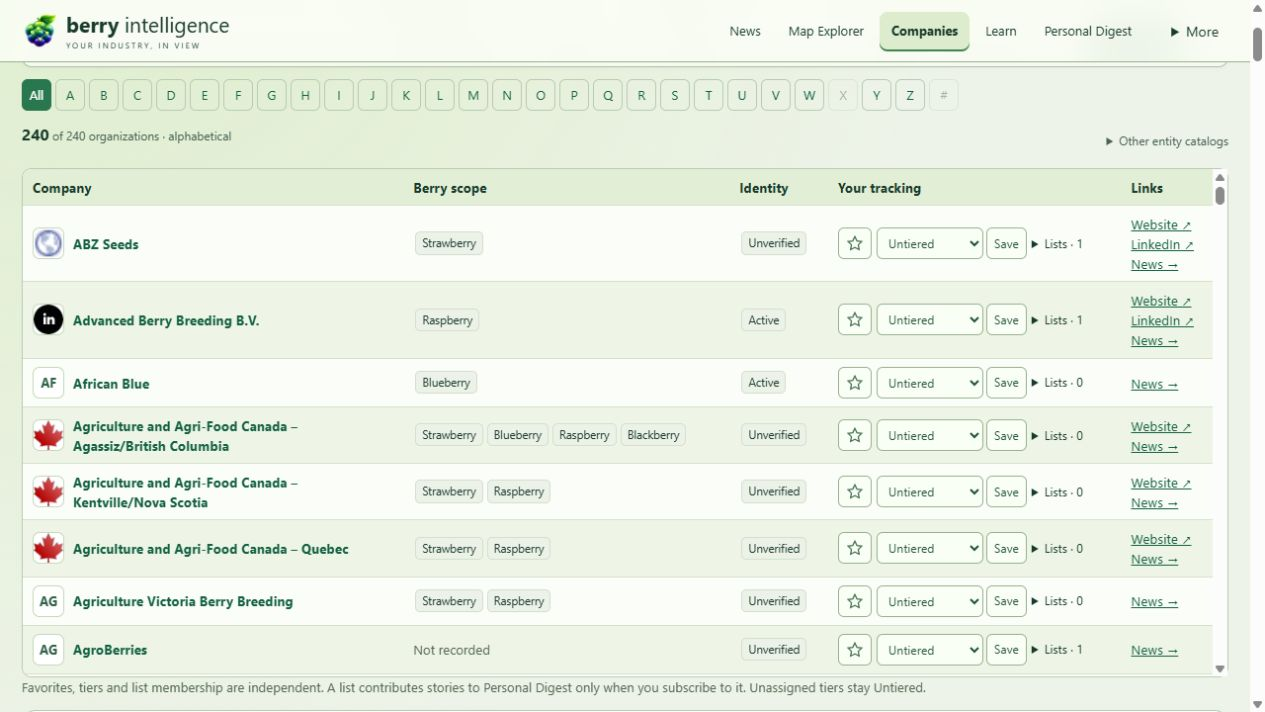
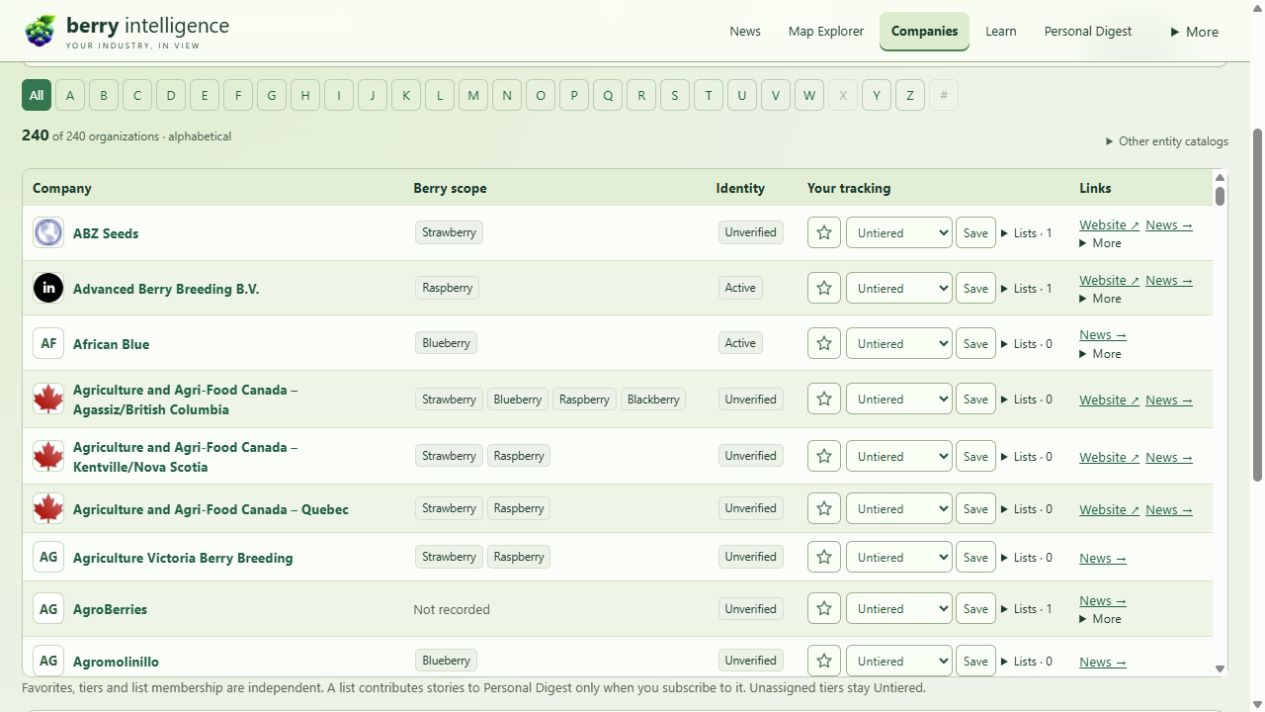
Preserve comparison, portfolio and identity compatibility

diff --git a/app/templates/company_directory.html b/app/templates/company_directory.html
@@ -1,14 +1,14 @@
 {% extends "glasshouse_base.html" %}
 {% from "_company_controls.html" import tracking with context %}
 {% block title %}Companies · Berry Intelligence{% endblock %}
-{% block head_extra %}<link rel="stylesheet" href="/static/company_workspace.css?v=4">{% endblock %}
+{% block head_extra %}<link rel="stylesheet" href="/static/company_workspace.css?v=5">{% endblock %}
 {% block content %}
 <div class="company-workspace">
 <header class="digest-heading"><div><p class="eyebrow">YOUR INDUSTRY NETWORK</p><h1>Companies</h1><p>Find organizations, follow their news and organize your interests.</p></div><div class="company-socials"><a class="outline-button" href="#company-directory-results">Focus directory</a><a class="outline-button" href="#company-lists">Lists & subscriptions</a></div></header>
 <form class="digest-filters" method="get"><label>Search<input type="search" name="q" value="{{ filters.q }}" placeholder="Company name or alias"></label><label>Organization type<select name="kind"><option value="">All organizations</option>{% for key,label in [('company','Companies'),('brand','Brands'),('breeding_program','Breeding programs'),('registry','Source systems')] %}<option value="{{ key }}" {% if filters.kind == key %}selected{% endif %}>{{ label }}</option>{% endfor %}</select></label><label>Tier<select name="tier"><option value="">All tiers</option>{% for key,label in tiers.items() %}<option value="{{ key }}" {% if filters.tier == key %}selected{% endif %}>{{ label }}</option>{% endfor %}</select></label><label>Company list<select name="list"><option value="">All lists</option>{% for group in lists %}<option value="{{ group.id }}" {% if filters.list == group.id %}selected{% endif %}>{{ group.name }}</option>{% endfor %}</select></label><label class="company-check"><input type="checkbox" name="favorites" value="1" {% if filters.favorites == '1' %}checked{% endif %}> Favorites only</label><details class="company-crops"><summary>Berries · {{ filters.berry.split(',')|reject('equalto','')|list|length or 'all' }}</summary>{% for key,label in berries.items() %}<label><input type="checkbox" name="berry_choice" value="{{ key }}" {% if key in filters.berry.split(',') %}checked{% endif %}> {{ label }}</label>{% endfor %}</details><button class="green-button">Apply filters</button><a href="/entities/company">Reset</a></form>
 <section id="company-directory-results"><nav class="company-alphabet" aria-label="Company alphabetical navigation"><a href="{{ letter_urls[''] }}" {% if not filters.letter %}aria-current="page"{% endif %}>All</a>{% for letter in 'ABCDEFGHIJKLMNOPQRSTUVWXYZ#' %}{% if letter in letters %}<a href="{{ letter_urls[letter] }}" {% if filters.letter == letter %}aria-current="page"{% endif %}>{{ letter }}</a>{% else %}<span>{{ letter }}</span>{% endif %}{% endfor %}</nav>
 <div class="digest-toolbar"><p><b>{{ matching }}</b> of {{ total }} organizations · alphabetical</p><details><summary>Other entity catalogs</summary><a href="/entities/variety">Varieties</a> · <a href="/entities/person">People records</a> · <a href="/entities/geography">Geographies</a> · <a href="/entities/company?view=legacy">Previous directory</a></details></div>
-<div class="company-table-scroll" tabindex="0" aria-label="Company directory; scroll for more rows and columns"><table class="company-table"><thead><tr><th>Company</th><th>Berry scope</th><th>Identity</th><th>Your tracking</th><th>Links</th></tr></thead><tbody>{% for row in rows %}<tr id="organization-{{ row.id }}"><th><a href="{{ row.profile_url }}" class="company-lockup">{% if row.logo_url %}<img src="{{ row.logo_url }}" alt="" loading="lazy" referrerpolicy="no-referrer">{% else %}<span class="company-monogram">{{ row.name[:2]|upper }}</span>{% endif %}<span>{{ row.name }}{% if row.is_registry %}<small>Source system · not a competitor</small>{% elif row.entity_type != 'company' %}<small>{{ row.entity_type|replace('_',' ')|title }}</small>{% endif %}</span></a></th><td>{% for berry in row.berry_ids %}<span class="company-badge">{{ berry.removeprefix('berry-')|title }}</span>{% else %}<span class="company-muted">Not recorded</span>{% endfor %}</td><td><span class="company-badge">{{ row.status|replace('_',' ')|capitalize }}</span></td><td>{{ tracking(row, return_to ~ '#organization-' ~ row.id) }}</td><td>{% if row.website %}<a href="{{ row.website }}" target="_blank" rel="noopener noreferrer">Website ↗</a>{% endif %}{% if row.linkedin %}<a href="{{ row.linkedin }}" target="_blank" rel="noopener noreferrer">LinkedIn ↗</a>{% endif %}<a href="/today?company={{ row.id }}">News →</a></td></tr>{% else %}<tr><td colspan="5">No organizations match. Clear a filter or select another letter.</td></tr>{% endfor %}</tbody></table></div>
+<div class="company-table-scroll" tabindex="0" aria-label="Company directory; scroll for more rows and columns"><table class="company-table"><thead><tr><th>Company</th><th>Berry scope</th><th>Identity</th><th>Your tracking</th><th>Links</th></tr></thead><tbody>{% for row in rows %}<tr id="organization-{{ row.id }}"><th><a href="{{ row.profile_url }}" class="company-lockup">{% if row.logo_url %}<img src="{{ row.logo_url }}" alt="" loading="lazy" referrerpolicy="no-referrer">{% else %}<span class="company-monogram">{{ row.name[:2]|upper }}</span>{% endif %}<span>{{ row.name }}{% if row.is_registry %}<small>Source system · not a competitor</small>{% elif row.entity_type != 'company' %}<small>{{ row.entity_type|replace('_',' ')|title }}</small>{% endif %}</span></a></th><td>{% for berry in row.berry_ids %}<span class="company-badge">{{ berry.removeprefix('berry-')|title }}</span>{% else %}<span class="company-muted">Not recorded</span>{% endfor %}</td><td><span class="company-badge">{{ row.status|replace('_',' ')|capitalize }}</span></td><td>{{ tracking(row, return_to ~ '#organization-' ~ row.id) }}</td><td>{% if row.website %}<a href="{{ row.website }}" target="_blank" rel="noopener noreferrer">Website ↗</a>{% endif %}<a href="/today?company={{ row.id }}">News →</a>{% if row.linkedin or (row.canonical and row.entity_type == 'company') %}<details class="company-extra-links"><summary>More</summary>{% if row.linkedin %}<a href="{{ row.linkedin }}" target="_blank" rel="noopener noreferrer">LinkedIn ↗</a>{% endif %}{% if row.canonical and row.entity_type == 'company' %}<a href="/entities/company/compare?ids={{ row.id }}">Compare</a><a href="/entities/company/{{ row.id }}/portfolio">Portfolio</a>{% endif %}</details>{% endif %}</td></tr>{% else %}<tr><td colspan="5">No organizations match. Clear a filter or select another letter.</td></tr>{% endfor %}</tbody></table></div>
 </section><p class="company-muted">Favorites, tiers and list membership are independent. A list contributes stories to Personal Digest only when you subscribe to it. Unassigned tiers stay Untiered.</p>
 {% include "_company_lists.html" %}
 </div>

diff --git a/app/templates/feed_first_company.html b/app/templates/feed_first_company.html
@@ -2,10 +2,10 @@
 {% from "_company_controls.html" import tracking with context %}
 {% from "_personal_icons.html" import icon, action_icon with context %}
 {% block title %}{{ name }} · Berry Intelligence{% endblock %}
-{% block head_extra %}<link rel="stylesheet" href="/static/company_workspace.css?v=4"><link rel="stylesheet" href="/static/news_workspace.css">{% endblock %}
+{% block head_extra %}<link rel="stylesheet" href="/static/company_workspace.css?v=5"><link rel="stylesheet" href="/static/news_workspace.css">{% endblock %}
 {% block content %}
 <div class="company-workspace" data-company-profile data-entity-dossier data-entity-id="{{ entity_id }}" data-archetype="{{ dossier.archetype }}">
-<header class="company-profile-heading"><a href="/entities/company" class="company-back">← Companies</a><div class="company-identity">{% if company.logo_url %}<img class="bos-logo bos-entity-logo" src="{{ company.logo_url }}" alt="{{ name }} logo" referrerpolicy="no-referrer">{% else %}<span class="company-monogram company-large">{{ monogram }}</span>{% endif %}<div><p class="eyebrow">{{ dossier.archetype_label }}</p><h1>{{ name }}</h1><p>{{ 'Provisional identity' if company.status == 'unverified' else 'Catalog record · ' ~ (company.status|capitalize) }}{% if not dossier.competitor_eligible %} · Excluded from competitor counts{% endif %}</p></div></div><div class="company-profile-actions">{{ tracking(company, return_to) }}<a class="outline-button" href="/today?company={{ entity_id }}">Company news →</a></div><div class="company-socials">{% if company.website %}<a href="{{ company.website }}" target="_blank" rel="noopener noreferrer">Website ↗</a>{% endif %}{% if company.linkedin %}<a href="{{ company.linkedin }}" target="_blank" rel="noopener noreferrer">LinkedIn ↗</a>{% endif %}{% for social in company.socials %}{% if social.url %}<a href="{{ social.url }}" target="_blank" rel="noopener noreferrer">{{ social.platform or social.label }}{% if social.handle %} · {{ social.handle }}{% endif %} ↗</a>{% else %}<span>{{ social.platform }} · {{ social.handle }}</span>{% endif %}{% endfor %}{% if company.edited %}<small>User-edited profile links</small>{% endif %}</div></header>
+<header class="company-profile-heading"><a href="/entities/company" class="company-back">← Companies</a><div class="company-identity">{% if company.logo_url %}<img class="bos-logo bos-entity-logo" src="{{ company.logo_url }}" alt="{{ name }} logo" referrerpolicy="no-referrer">{% else %}<span class="company-monogram company-large">{{ monogram }}</span>{% endif %}<div><p class="eyebrow">{{ dossier.archetype_label }}</p><h1>{{ name }}</h1><p>{{ 'Provisional identity · Unverified' if company.status == 'unverified' else 'Catalog record · ' ~ (company.status|capitalize) }}{% if not dossier.competitor_eligible %} · Excluded from competitor counts{% endif %}</p></div></div><div class="company-profile-actions">{{ tracking(company, return_to) }}<a class="outline-button" href="/today?company={{ entity_id }}">Company news →</a></div><div class="company-socials">{% if company.website %}<a href="{{ company.website }}" target="_blank" rel="noopener noreferrer">Website ↗</a>{% endif %}{% if company.linkedin %}<a href="{{ company.linkedin }}" target="_blank" rel="noopener noreferrer">LinkedIn ↗</a>{% endif %}{% for social in company.socials %}{% if social.url %}<a href="{{ social.url }}" target="_blank" rel="noopener noreferrer">{{ social.platform or social.label }}{% if social.handle %} · {{ social.handle }}{% endif %} ↗</a>{% else %}<span>{{ social.platform }} · {{ social.handle }}</span>{% endif %}{% endfor %}{% if company.edited %}<small>User-edited profile links</small>{% endif %}</div></header>
 {% if request.query_params.get('saved') %}<p class="digest-notice" role="status">Profile changes saved.</p>{% endif %}{% if logo_status %}<p class="digest-notice" role="status">{{ logo_status }}</p>{% endif %}{% if logo_error %}<p class="digest-notice" role="alert">{{ logo_error }}</p>{% endif %}
 <nav class="company-tabs" aria-label="Company sections">{% for key,label in [('overview','Overview'),('news','News'),('intelligence','Intelligence'),('varieties','Varieties'),('regions','Regions'),('people','People'),('details','Profile & links')] %}<a href="?tab={{ key }}" {% if tab == key %}aria-current="page"{% endif %}>{{ label }}{% if key == 'people' %} <small>{{ company_people|rejectattr('hidden')|list|length }}</small>{% endif %}</a>{% endfor %}</nav>
 {% if tab == 'overview' %}

diff --git a/app/static/company_workspace.css b/app/static/company_workspace.css
@@ -5,3 +5,5 @@
 .company-membership:not([open])>div{display:none}.company-membership>div{min-width:0;width:min(300px,calc(100vw - 48px));overflow-wrap:anywhere}.company-membership form span{min-width:0}.company-membership form button{flex:none}
 
 .company-tier-form{position:relative}
+
+.company-table td:last-child>a{display:inline-block;margin-right:6px}.company-extra-links{font-size:.78rem}.company-extra-links a{display:block}

diff --git a/tests/test_app.py b/tests/test_app.py
@@ -71,7 +71,10 @@ def test_public_intelligence_pages_use_compact_bluf_tables() -> None:
     assert "DECIDE" in assessments
     assert "never auto-created from Signal confirmation" in assessments
 
-    for path in ["/entities/company", "/signals", "/strategic-questions"]:
+    directory = client.get("/entities/company").text
+    assert 'class="company-table"' in directory
+    assert "Company alphabetical navigation" in directory
+    for path in ["/signals", "/strategic-questions"]:
         text = client.get(path).text
         assert 'class="entity-list balanced-card-grid public-card-index"' in text
         assert 'class="card entity-card"' in text

diff --git a/app/services/company_directory.py b/app/services/company_directory.py
@@ -51,6 +51,7 @@ def catalog(entities, *, logos=None, profiles=None, state=None):
             if field in override:
                 row[field] = override[field]
         row["logo_url"] = (logos or {}).get(key, {}).get("url") or row.get("logo_url") or ""
+        row["canonical"] = key in entities
         row["favorite"] = bool((state.get("entity_favorites") or {}).get(key))
         row["tier"] = (state.get("entity_tiers") or {}).get(key) or "untiered"
         row["tier_label"] = TIERS.get(row["tier"], "Unrecognized legacy tier")

diff --git a/tests/test_operator_variety_seed.py b/tests/test_operator_variety_seed.py
@@ -71,4 +71,4 @@ def test_provisional_registry_company_profile_does_not_claim_trust(tmp_path, mon
     page = TestClient(main.app).get("/entities/company/company-genetics-uruguay")
     assert page.status_code == 200
     assert "Unverified" in page.text and "Trusted catalog record" not in page.text
-    assert "Registry varieties" in page.text and "company-genetics-uruguay" in page.text
+    assert "Imported variety associations" in page.text and "company-genetics-uruguay" in page.text

diff --git a/tests/test_entity_identity_integrity.py b/tests/test_entity_identity_integrity.py
@@ -344,7 +344,7 @@ def test_old_planasa_href_redirects_on_live_catalog():
     client = TestClient(app)
     response = client.get("/entities/company/company-planasa-2?view=legacy", follow_redirects=False)
     assert response.status_code == 303
-    assert response.headers["location"] == "/entities/company/company-planasa"
+    assert response.headers["location"] == "/entities/company/company-planasa?view=legacy"
 
 
 def test_canonical_redirects_file_maps_planasa_duplicate():

diff --git a/docs/v2/MISSION-05-COMPANIES.md b/docs/v2/MISSION-05-COMPANIES.md
@@ -24,9 +24,9 @@ Private notes, contacts, marks and logos are excluded from read-only runtime pre
 
 ## Verification
 
-- 178 focused Company, News, Map, Digest, seed, dossier, logo and compatibility checks pass. Coverage includes independent marks/subscriptions, concurrent saves, corrupt-state preservation, stale edits, safe URLs, contact hide/restore, retained person list members, per-story Digest filtering and read-only boundaries.
+- 178 focused Company, News, Map, Digest, seed, dossier, logo and compatibility checks pass; an additional 87 Company compare/portfolio, identity, photo-seed and directory checks pass after restoring compatibility shortcuts. Coverage includes independent marks/subscriptions, concurrent saves, corrupt-state preservation, stale edits, safe URLs, contact hide/restore, retained person list members, per-story Digest filtering and read-only boundaries.
 - Browser review in the isolated local workspace: directory alphabet navigation; favorite/tier persistence into a profile; custom list join and Digest subscription; profile link save; highlighted contact add/hide/restore; Map favorite/tier/list scope; shared Reader content and focus return. Sample contact remains hidden and sample list/state is labeled as review-only.
-- Directory Focus shows eight complete rows in the normal desktop viewport. At 390px, directory and profile remain within the viewport; wide table columns scroll inside their container. Keyboard labels, visible focus and delayed icon tooltips remain available.
+- Directory Focus shows nine complete rows in the normal desktop viewport. At 390px, directory and profile remain within the viewport; wide table columns scroll inside their container. Keyboard labels, visible focus and delayed icon tooltips remain available.
 - Records validation passes. Static build produces 1,755 pages with no unpublished draft ids/titles. Full-suite exact-head CI is recorded in the draft PR after push.
 - Review images: [Directory](../../artifacts/design-sprint/company-directory-live.png), [Company profile](../../artifacts/design-sprint/company-profile-live.png).
 
